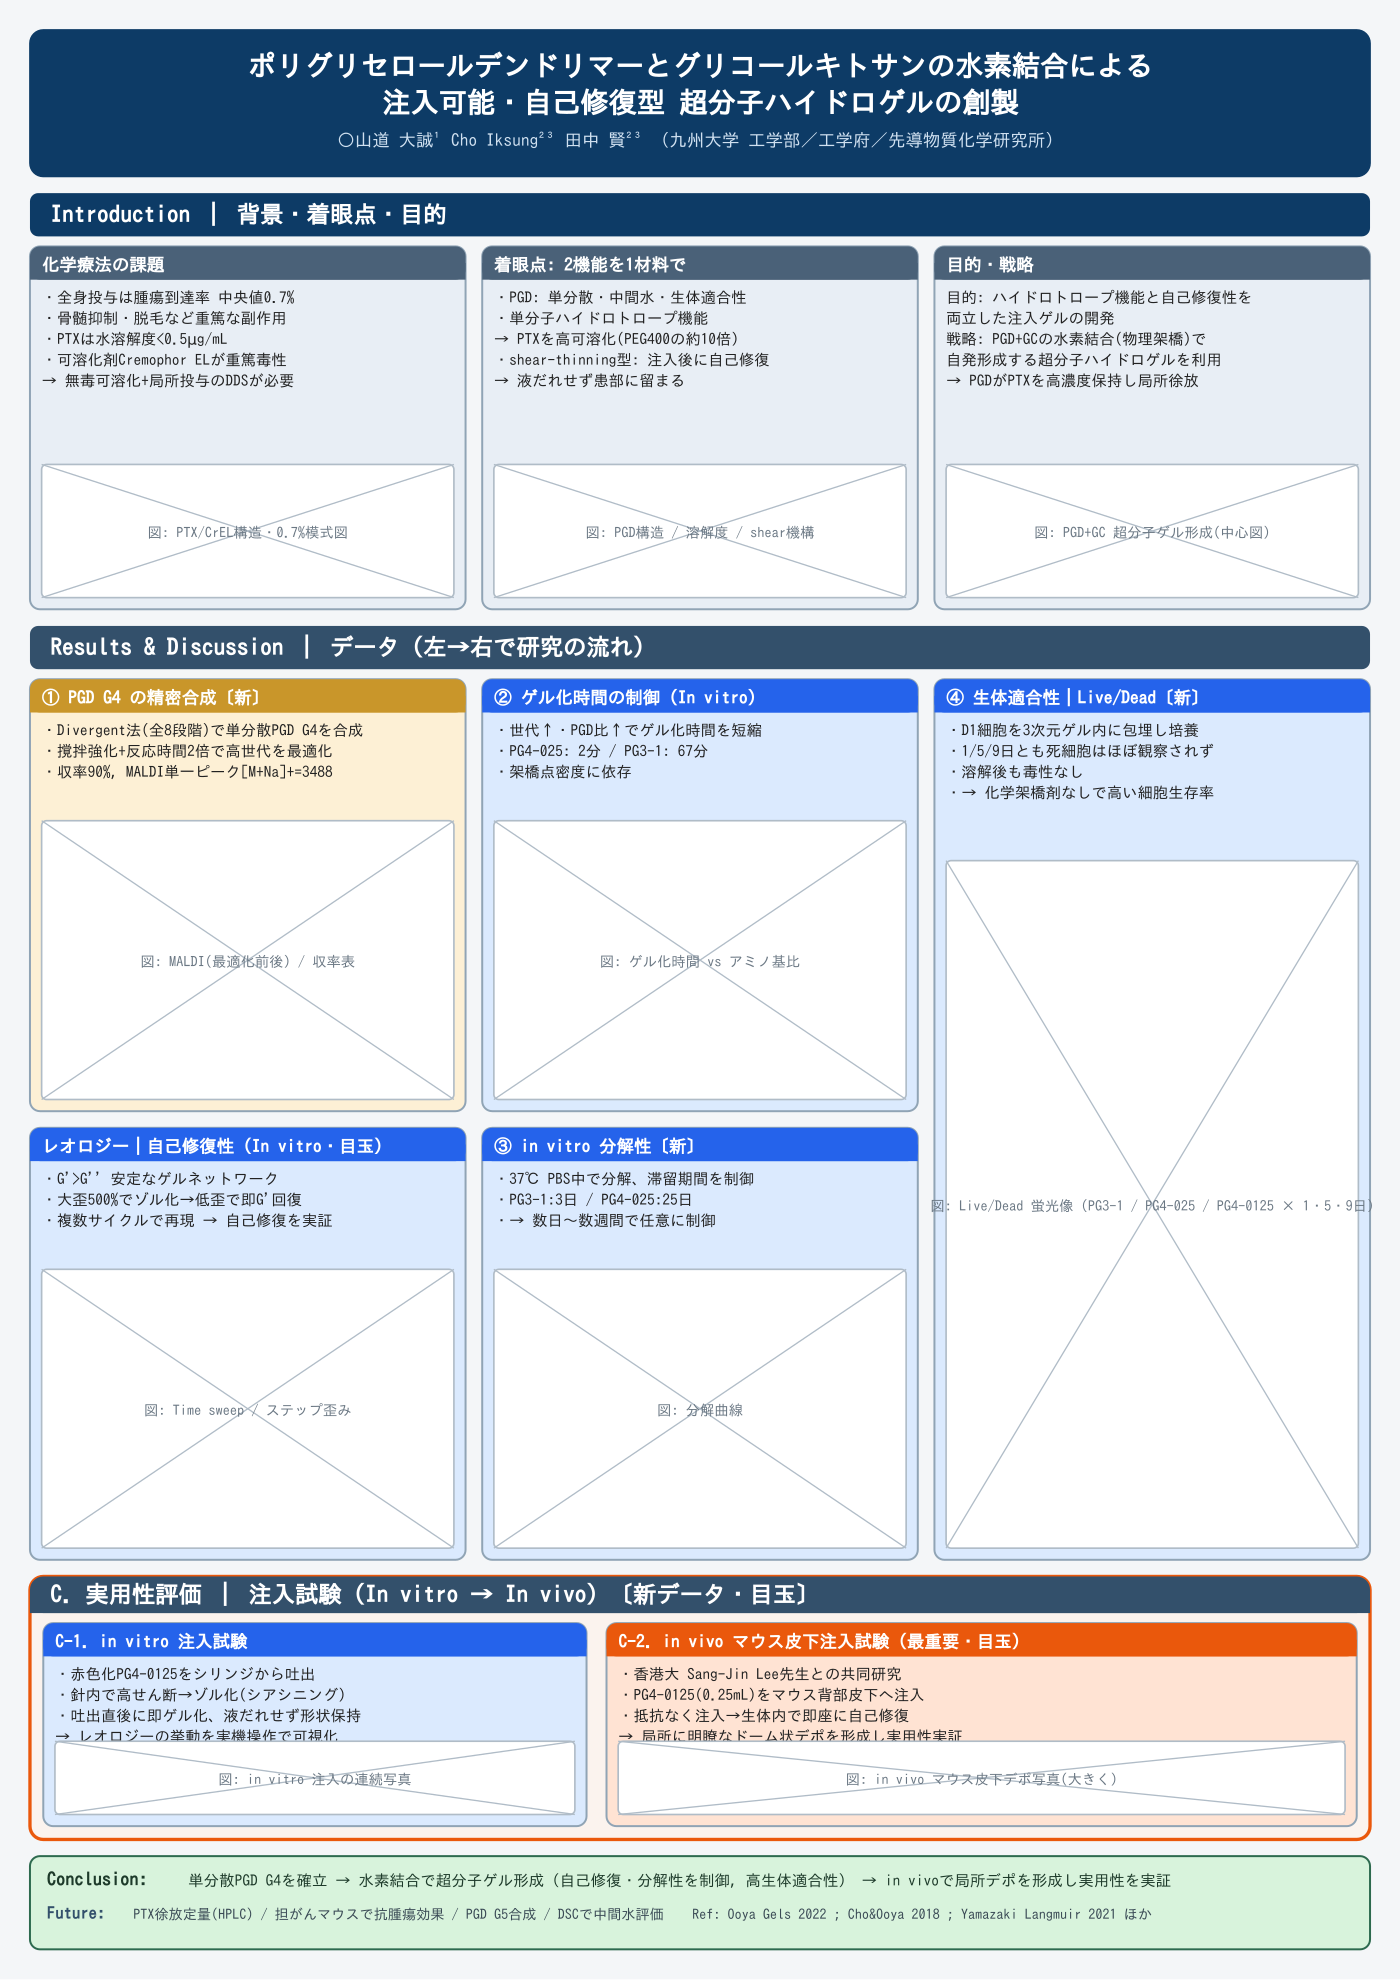
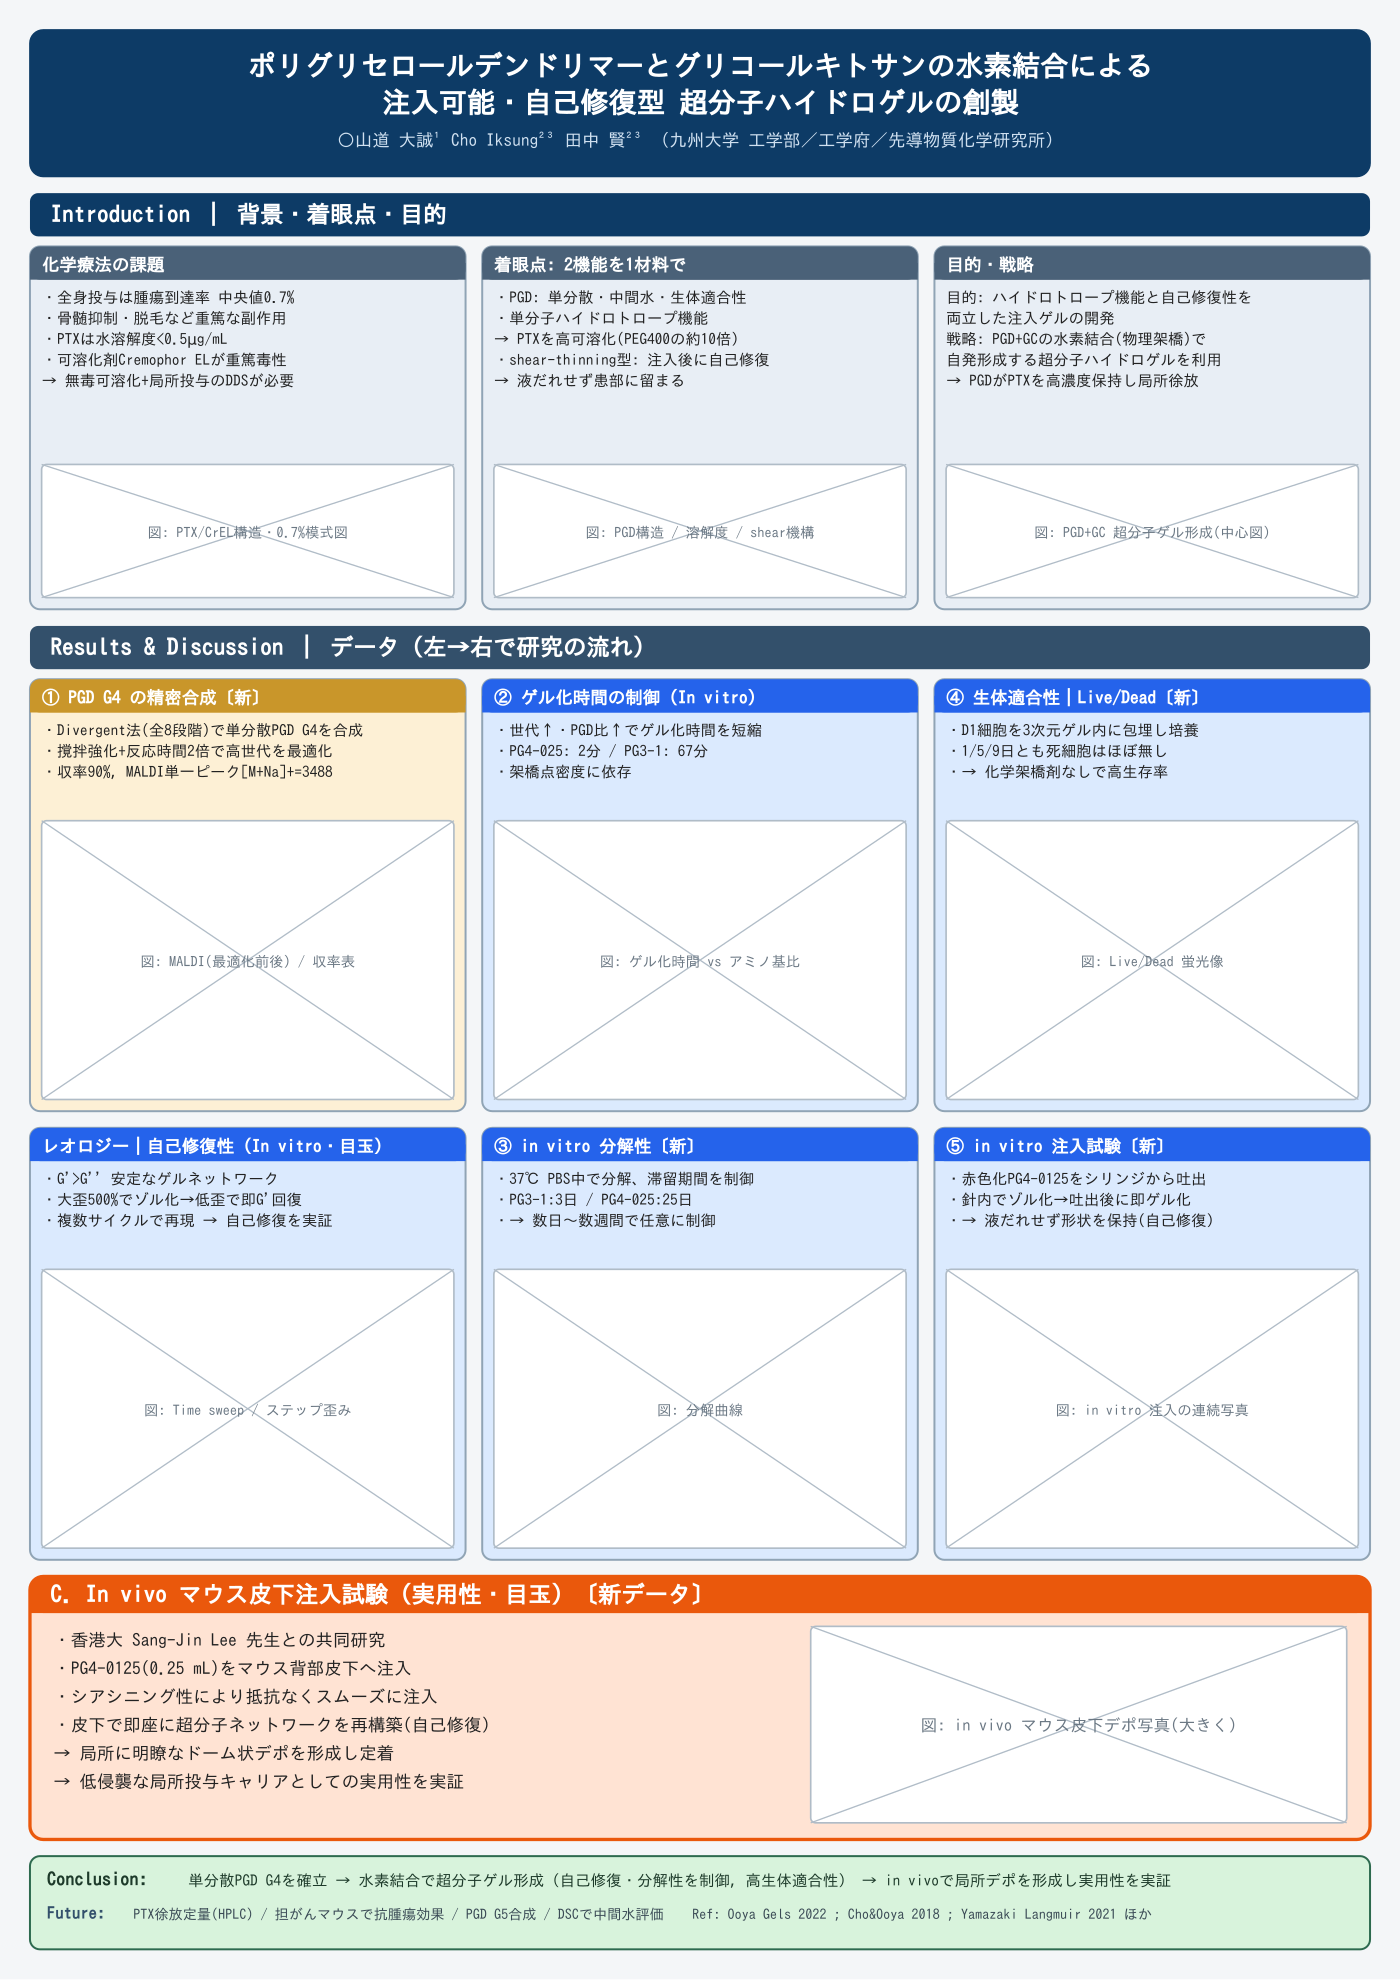
In vivoを単独の全幅パネルに
下部Cを「In vitro+In vivo」の2分割から、In vivoマウス皮下注入の単独全幅パネルに変更。
in vitro注入試験はデータグリッド3列目(Live/Deadの下)へ移動し全列2枚で均等化。
mockup・pptx更新。

https://claude.ai/code/session_01KuqqzALcpZUj35jC8BQaFN

diff --git a/poster/make_mockup.py b/poster/make_mockup.py
@@ -155,43 +155,43 @@ panel(dx1, yb, colw, ph, "③ in vitro 分解性〔新〕",
        "・→ 数日〜数週間で任意に制御"],
       C_VITRO, bar=C_VITRO_BAR, fig="図: 分解曲線", fig_h=fh)
 
-# Col3: 生体適合性 Live/Dead(縦長1枚・蛍光像グリッドを大きく)
-panel(dx2, yt, colw, data_h, "④ 生体適合性｜Live/Dead〔新〕",
+# Col3: Live/Dead + in vitro 注入試験
+panel(dx2, yt, colw, ph, "④ 生体適合性｜Live/Dead〔新〕",
       ["・D1細胞を3次元ゲル内に包埋し培養",
-       "・1/5/9日とも死細胞はほぼ観察されず",
-       "・溶解後も毒性なし",
-       "・→ 化学架橋剤なしで高い細胞生存率"],
-      C_VITRO, bar=C_VITRO_BAR, fig="図: Live/Dead 蛍光像 (PG3-1 / PG4-025 / PG4-0125 × 1・5・9日)", fig_h=data_h-116)
-
-# ===== C. 実用性評価: 注入試験(全幅・独立帯)=====
-# 外枠 + 全幅ヘッダー
-rect(cx, inj_y, cw, band_inject_h, "#fbf3ee", stroke=C_VIVO_BAR, rx=8, sw=2)
-add(f'<rect x="{cx}" y="{inj_y}" width="{cw}" height="22" rx="8" fill="#33506b"/>')
-add(f'<rect x="{cx}" y="{inj_y+12}" width="{cw}" height="10" fill="#33506b"/>')
-text(cx+12, inj_y+16, "C. 実用性評価 ｜ 注入試験（In vitro → In vivo）〔新データ・目玉〕",
-     size=14, color="#ffffff", weight="bold")
-# 2分割サブパネル(In vivoを広めに: 左42% / 右58%)
-inj_inner_y = inj_y + 28
-inj_inner_h = band_inject_h - 36
-usable = cw - 16 - 12
-w_l = usable * 0.42
-w_r = usable * 0.58
-ix0 = cx + 8
-ix1 = cx + 8 + w_l + 12
-# 左: In vitro 注入(青)
-panel(ix0, inj_inner_y, w_l, inj_inner_h, "C-1. in vitro 注入試験",
+       "・1/5/9日とも死細胞はほぼ無し",
+       "・→ 化学架橋剤なしで高生存率"],
+      C_VITRO, bar=C_VITRO_BAR, fig="図: Live/Dead 蛍光像", fig_h=fh)
+panel(dx2, yb, colw, ph, "⑤ in vitro 注入試験〔新〕",
       ["・赤色化PG4-0125をシリンジから吐出",
-       "・針内で高せん断→ゾル化(シアシニング)",
-       "・吐出直後に即ゲル化、液だれせず形状保持",
-       "→ レオロジーの挙動を実機操作で可視化"],
-      C_VITRO, bar=C_VITRO_BAR, fig="図: in vitro 注入の連続写真", fig_h=inj_inner_h-78)
-# 右: In vivo 注入(オレンジ・目玉・広め)
-panel(ix1, inj_inner_y, w_r, inj_inner_h, "C-2. in vivo マウス皮下注入試験（最重要・目玉）",
-      ["・香港大 Sang-Jin Lee先生との共同研究",
-       "・PG4-0125(0.25mL)をマウス背部皮下へ注入",
-       "・抵抗なく注入→生体内で即座に自己修復",
-       "→ 局所に明瞭なドーム状デポを形成し実用性実証"],
-      C_VIVO, bar=C_VIVO_BAR, fig="図: in vivo マウス皮下デポ写真(大きく)", fig_h=inj_inner_h-78)
+       "・針内でゾル化→吐出後に即ゲル化",
+       "・→ 液だれせず形状を保持(自己修復)"],
+      C_VITRO, bar=C_VITRO_BAR, fig="図: in vitro 注入の連続写真", fig_h=fh)
+
+# ===== C. In vivo マウス皮下注入試験(全幅・単独・目玉)=====
+rect(cx, inj_y, cw, band_inject_h, C_VIVO, stroke=C_VIVO_BAR, rx=8, sw=2)
+add(f'<rect x="{cx}" y="{inj_y}" width="{cw}" height="22" rx="8" fill="{C_VIVO_BAR}"/>')
+add(f'<rect x="{cx}" y="{inj_y+12}" width="{cw}" height="10" fill="{C_VIVO_BAR}"/>')
+text(cx+12, inj_y+16, "C. In vivo マウス皮下注入試験（実用性・目玉）〔新データ〕",
+     size=14, color="#ffffff", weight="bold")
+# 左テキスト
+vtx = cx + 14
+ty = inj_y + 42
+for ln in ["・香港大 Sang-Jin Lee 先生との共同研究",
+           "・PG4-0125(0.25 mL)をマウス背部皮下へ注入",
+           "・シアシニング性により抵抗なくスムーズに注入",
+           "・皮下で即座に超分子ネットワークを再構築(自己修復)",
+           "→ 局所に明瞭なドーム状デポを形成し定着",
+           "→ 低侵襲な局所投与キャリアとしての実用性を実証"]:
+    text(vtx, ty, ln, size=10.5, color="#222"); ty += 17
+# 右に大きな図枠
+fvw = cw * 0.40
+fvx = cx + cw - fvw - 14
+fvy = inj_y + 30
+fvh = band_inject_h - 40
+rect(fvx, fvy, fvw, fvh, C_FIG, stroke=C_FIGB, rx=3, sw=1)
+add(f'<line x1="{fvx}" y1="{fvy}" x2="{fvx+fvw}" y2="{fvy+fvh}" stroke="{C_FIGB}" stroke-width="0.8"/>')
+add(f'<line x1="{fvx}" y1="{fvy+fvh}" x2="{fvx+fvw}" y2="{fvy}" stroke="{C_FIGB}" stroke-width="0.8"/>')
+text(fvx+fvw/2, fvy+fvh/2+4, "図: in vivo マウス皮下デポ写真(大きく)", size=10, color="#6b7884", anchor="middle")
 
 # ===== Conclusion(最下段・全幅・薄い帯)=====
 rect(cx, conc_y, cw, band_conc_h, C_CONC, stroke="#2d6a4f", rx=6, sw=1.2)

diff --git a/poster/make_pptx.py b/poster/make_pptx.py
@@ -204,41 +204,33 @@ panel(dx1, yb, colw, ph, "③ in vitro 分解性〔新〕",
        "・→ 数日〜数週間で任意に制御"],
       C_VITRO, C_VITRO_BAR, fig_caption="図: 分解曲線", fig_h=fh)
 
-# Col3: 生体適合性 Live/Dead(縦長1枚・蛍光像グリッドを大きく)
-panel(dx2, yt, colw, data_h, "④ 生体適合性｜Live/Dead〔新〕",
+# Col3: Live/Dead + in vitro 注入試験
+panel(dx2, yt, colw, ph, "④ 生体適合性｜Live/Dead〔新〕",
       ["・D1細胞を3次元ゲル内に包埋し培養",
-       "・1/5/9日とも死細胞はほぼ観察されず",
-       "・溶解後も毒性なし",
-       "・→ 化学架橋剤なしで高い細胞生存率"],
-      C_VITRO, C_VITRO_BAR,
-      fig_caption="図: Live/Dead 蛍光像\n(PG3-1 / PG4-025 / PG4-0125 × 1・5・9日)", fig_h=data_h-58)
-
-# --- C. 実用性評価: 注入試験(全幅・独立帯, In vitro→In vivo)---
-box(M, inj_y, cw, band_inject_h, RGBColor(0xfb,0xf3,0xee), line=C_VIVO_BAR, line_w=2.0)
-box(M, inj_y, cw, 11, C_SEC, line=None, rounded=False)
-textbox(M+4, inj_y, cw-8, 11,
-        [("C. 実用性評価 ｜ 注入試験（In vitro → In vivo）〔新データ・目玉〕", 17, C_WHITE, True)],
-        anchor=MSO_ANCHOR.MIDDLE)
-inj_iy = inj_y + 13
-inj_ih = band_inject_h - 16
-# In vivoを広めに: 左42% / 右58%
-usable = cw - 4 - 5
-w_l = usable * 0.42; w_r = usable * 0.58
-ix0 = M + 2; ix1 = M + 2 + w_l + 5
-# 左: In vitro 注入(青)
-panel(ix0, inj_iy, w_l, inj_ih, "C-1. in vitro 注入試験",
+       "・1/5/9日とも死細胞はほぼ無し",
+       "・→ 化学架橋剤なしで高生存率"],
+      C_VITRO, C_VITRO_BAR, fig_caption="図: Live/Dead 蛍光像", fig_h=fh)
+panel(dx2, yb, colw, ph, "⑤ in vitro 注入試験〔新〕",
       ["・赤色化PG4-0125をシリンジから吐出",
-       "・針内で高せん断 → ゾル化(シアシニング)",
-       "・吐出直後に即ゲル化、液だれせず形状保持",
-       "→ レオロジー挙動を実機操作で可視化"],
-      C_VITRO, C_VITRO_BAR, fig_caption="図: in vitro 注入の連続写真", fig_h=inj_ih-52)
-# 右: In vivo 注入(オレンジ・目玉・広め)
-panel(ix1, inj_iy, w_r, inj_ih, "C-2. in vivo マウス皮下注入試験（最重要・目玉）",
-      ["・香港大 Sang-Jin Lee 先生との共同研究",
-       "・PG4-0125(0.25 mL)をマウス背部皮下へ注入",
-       "・抵抗なく注入 → 生体内で即座に自己修復",
-       "→ 局所に明瞭なドーム状デポを形成し実用性を実証"],
-      C_VIVO, C_VIVO_BAR, fig_caption="図: in vivo マウス皮下デポ写真(大きく)", fig_h=inj_ih-52)
+       "・針内でゾル化 → 吐出後に即ゲル化",
+       "・→ 液だれせず形状を保持(自己修復)"],
+      C_VITRO, C_VITRO_BAR, fig_caption="図: in vitro 注入の連続写真", fig_h=fh)
+
+# --- C. In vivo マウス皮下注入試験(全幅・単独・目玉)---
+box(M, inj_y, cw, band_inject_h, C_VIVO, line=C_VIVO_BAR, line_w=2.0)
+box(M, inj_y, cw, 11, C_VIVO_BAR, line=None, rounded=False)
+textbox(M+4, inj_y, cw-8, 11,
+        [("C. In vivo マウス皮下注入試験（実用性・目玉）〔新データ〕", 17, C_WHITE, True)],
+        anchor=MSO_ANCHOR.MIDDLE)
+textbox(M+5, inj_y+13, cw*0.56, band_inject_h-15,
+        [("・香港大 Sang-Jin Lee 先生との共同研究", 13, C_DARK, False),
+         ("・PG4-0125(0.25 mL)をマウス背部皮下へ注入", 13, C_DARK, False),
+         ("・シアシニング性により抵抗なくスムーズに注入", 13, C_DARK, False),
+         ("・皮下で即座に超分子ネットワークを再構築(自己修復)", 13, C_DARK, False),
+         ("→ 局所に明瞭なドーム状デポを形成し定着", 13, C_DARK, True),
+         ("→ 低侵襲な局所投与キャリアとしての実用性を実証", 13, C_DARK, True)],
+        space_after=3)
+figph(M+cw*0.60, inj_y+15, cw*0.38, band_inject_h-20, "図: in vivo マウス皮下デポ写真(大きく)")
 
 # --- Conclusion(薄い帯)---
 box(M, conc_y, cw, band_conc_h, C_CONC, line=C_CONC_BAR, line_w=1.2)
